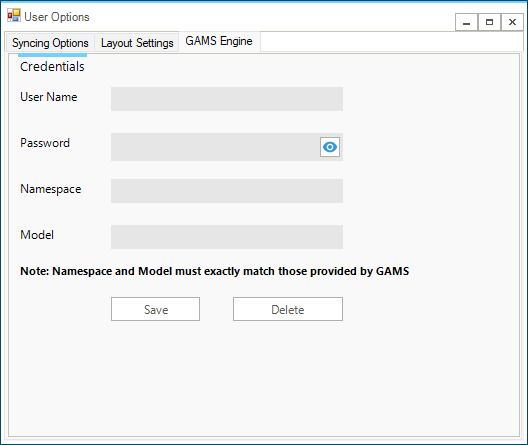
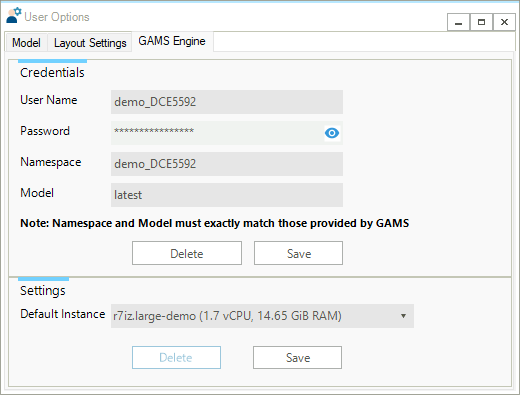
Updated GAMS Engine Settings content.

diff --git a/veda-mkdocs/docs/run-manager.md b/veda-mkdocs/docs/run-manager.md
@@ -649,7 +649,7 @@ Engine credentials.
 Users must enter their User Name and Password as provided by 'GAMS.' For
 the Namespace and Model name, follow these steps:
 
-- Launch the GAMS Engine UI.
+- Launch the [GAMS Engine UI](https://engine.gams.com/login){ target="_blank" rel="noopener noreferrer" }.
 - Navigate to the Namespaces tab.
 - Review the listed Namespaces and Models to find yours.
 - Ensure that your namespace and model name are correct.
@@ -672,23 +672,41 @@ the Namespace and Model name, follow these steps:
 
     !!! note "Note"
 
-        **DemoS_001** is a Veda model. You need to add TIMES
-        model source instead of Veda model. You can download the
-        latest TIMES model code from
+        Upload the **TIMES model source**, not a Veda model. For
+        example, **DemoS_001** is a Veda model used in Veda
+        cases — do **not** upload it here. Instead, upload the TIMES
+        model source code. You can download the latest version from
         [here](https://github.com/etsap-TIMES/TIMES_model/releases){ target="_blank" rel="noopener noreferrer" }.
 
         After downloading, replace the source folder files with
-        the new files. Do not change or remove the
-        **`times.gms`** file.
+        the new files. Do not remove the **`times.gms`** file,
+        but you can rename it.
+
+        You may use **any main file name** (not only
+        **`times.gms`**), provided that:
+
+        - the name is **strictly lowercase** (e.g. `abc.gms`);
+        - the file name in the TIMES source zip **must match** the
+          name you enter in the GAMS Engine (**Name of the main
+          file**) field below.
+
+        ![](images/gams_engineui_modelname_registration_2.png)
+
+        Examples: `ABC.gms` and `aBC_01.gms` are invalid;
+        `abc.gms` and `abc_01.gms` are valid.
 
     - **Identifier for the model** - Enter
-      `latest`
+      `latest` (you may use any model name, but it must match the
+      **Model** value in the Veda Application GAMS Engine credentials dialog below)
+
+        ![](images/gams_engine_credentials_model_highlight.png)
+
     - **Name of the main file** – Enter
-      `times.gms`
+      `times.gms` (lowercase letters only; no uppercase letters)
     - **Command line arguments** – Enter
       `idir1=source,idir2=model,fileCase=2`
 
     ![](images/gams_engineui_modelname_registration_filled.png)
 
-For more detailed guidance and an illustrative image, please refer to
-the provided [link](https://www.gams.com/engine/administration.html){ target="_blank" rel="noopener noreferrer" }.
+For more detailed guidance, see the
+[GAMS Engine documentation](https://www.gams.com/engine/administration.html){ target="_blank" rel="noopener noreferrer" }.
